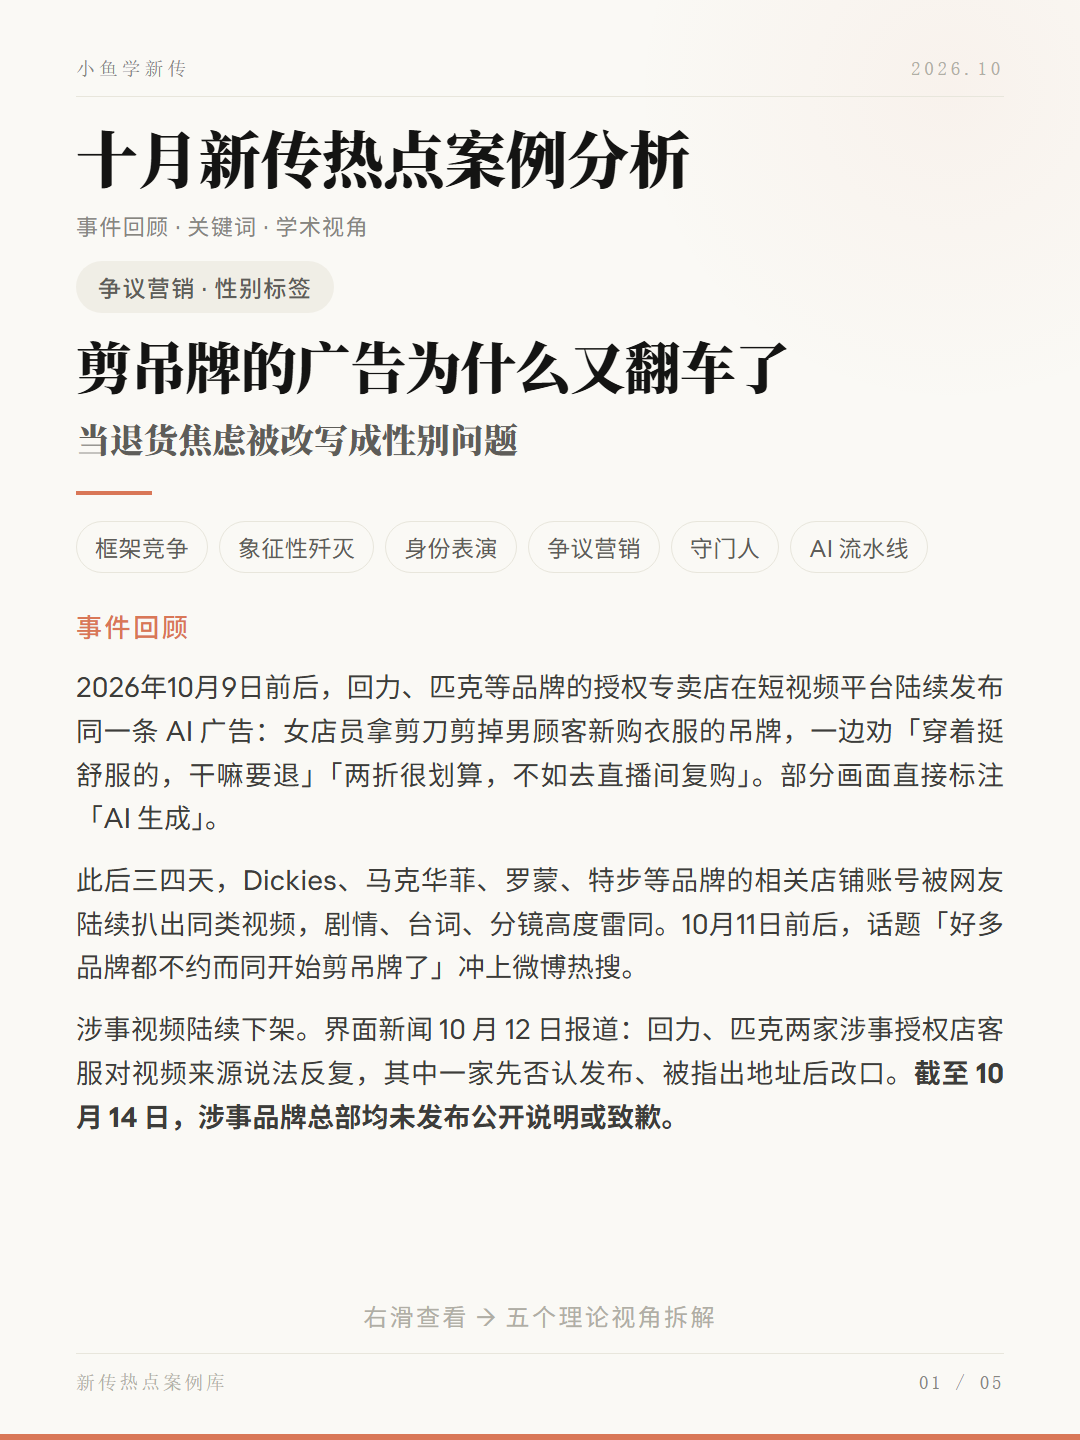
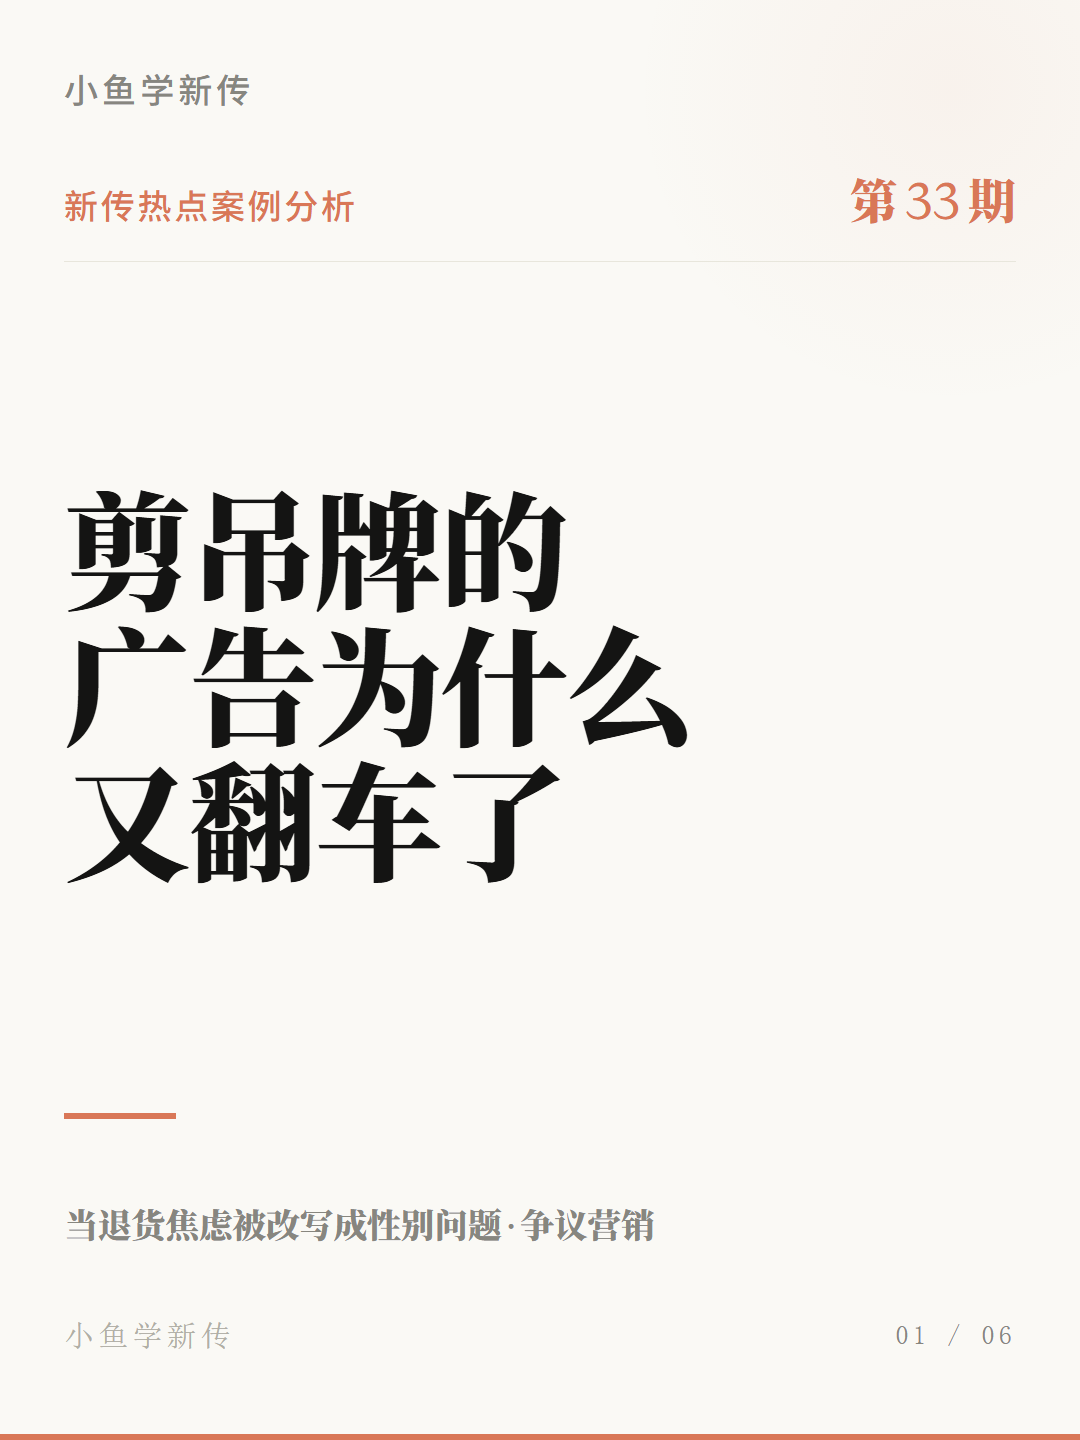
编号33 剪吊牌封面改大标题版式，5→6 张
p1 改纯大标题封面（v13 同款），事件回顾+关键词下沉为 p2，p2-p5 顺延为 p3-p6，页脚署名统一为小鱼学新传。

diff --git a/kb/新传热点事件解读/README.md b/kb/新传热点事件解读/README.md
@@ -26,26 +26,26 @@
 | 12 | [现实版「葫芦娃爷爷」爆火与剪葫芦](12-葫芦娃爷爷事件.md) | 2026-09-05 | 集体记忆 / 拟剧理论 / 情感公地悲剧 / 媒介情境 / 反向把关 | ×3 |
 | 13 | [火车「零食占座」事件：一个空座的三次反转](13-火车零食占座事件.md) | 2026-08-16 | 反转新闻 / 框架竞争 / 新可见性 / 半公共产品 / 失范 | ×3 |
 | 14 | [罗永浩一句「难吃」与野人先生的冷处理](14-野人先生事件.md) | 2026-09-12 | 意见领袖 / 情境式危机沟通 / 符号消费 / 负面偏好 / 叙事传输 | ×3 |
-| 15 | [「一点点」前员工举报茶叶异物与「上门」争议](15-一点点事件.md) | 2026-08-13 | 框架理论 / 弱者的武器 / 情境式危机沟通 / 私人关系施压 | ×5 |
+| 15 | [「一点点」前员工举报茶叶异物与「上门」争议](15-一点点事件.md) | 2026-08-13 | 框架理论 / 弱者的武器 / 情境式危机沟通 / 私人关系施压 | ×6 |
 | 16 | [湖北恩施 MCN 假冒「村支书」「村长」直播带货被立案](16-假村官带货事件.md) | 2026-09-16 | 拟剧理论 / 符号资本 / 拟像与仿真 / 公地悲剧 | ×6 |
 | 17 | [山东聊城「水城优才」人才引进：面试第一，因「专升本」被拒录](17-专升本被拒录事件.md) | 2026-09-16 | 程序正义 / 制度化文化资本 / 污名 / 框架竞争与情感公众 / 优绩主义 | ×6 |
 | 18 | [西贝「彻底倒闭」传闻与贾国龙的公开喊话](18-西贝倒闭传闻.md) | 2026-09-19 | 谣言传播 / 框架竞争 / 危机公关 / 事件性公众 / 企业即媒介 | ×4 |
-| 19 | [低保女孩赴港看演唱会触发预警：一笔消费进入公共救助的边界](19-低保赴港追星.md) | 2026-09-02 | 个案公共化 / 污名 / 文化资本 / 道德经济学 / 数字治理 | ×5 |
-| 20 | [一杯豆浆的黑丝：品牌授权模式下的流量异化与责任断裂](20-永和豆浆擦边.md) | 2026-09-16 | 注意力经济 / 代理成本 / 拟剧理论 / 违法成本 / 制度留白 | ×5 + ×5（Anthropic 版） |
-| 21 | [一声「坐下」：私人仪式、公共边界与被放大的事实](21-赵雷求婚.md) | 2026-09-12 | 礼貌性疏忽 / 情境崩溃 / 议程设置 / 仪式模板 / 信源核实 | ×5 |
-| 22 | [两秒钟的触碰：一段剪辑与一次反转](22-男童摸臀反转.md) | 2026-08-26 | 框架理论 / 污名 / 道德恐慌 / 正当性叙事 / 平台治理 | ×5 |
-| 23 | [一根六十厘米的蛋挞：当「变大」成为最低成本的流量入口](23-超长蛋挞.md) | 2026-09-09 | 注意力经济 / 社交货币 / 供给端竞赛 / 流量驱动消费 / 健康风险传播 | ×5 |
-| 24 | [谣言跑在通报之前：四十小时的信息真空与一场未完成的审判](24-南医大坠亡谣言.md) | 2026-09-15 | 谣言传播 / 框架理论 / 后真相 / 事实核查 / 平台治理 | ×5 |
-| 25 | [一盒月饼的错位：品牌失语之后，声讨落在了谁头上](25-蒂芙尼月饼门.md) | 2026-09-27 | 符号消费 / 框架建构 / 弱者的武器 / 情绪劳动 / 数字围观 | ×5 |
-| 26 | [没有退路的道歉：客舱尊严如何在考核压力中让出](26-东航乘务员下跪.md) | 2026-09-28 | 情感劳动 / 考核规训 / 框架建构 / 面子功夫 / 机闹治理 | ×5 |
-| 27 | [被剪出来的真实：一档综艺如何生产它需要的「真实」](27-张家齐综艺剪辑.md) | 2026-09-29 | 情感资本主义 / 拟像与超真实 / 语境坍塌 / 景观社会 / 平台化 | ×5 |
-| 28 | [谁来了都得闪两步：非遗老教材的七亿流量，落在了谁手上](28-非遗舞步出圈.md) | 2026-09-26 | **非理论体例**：反差感 / 参与感 / 去处 / 门槛（评论立意四层次） | ×5 |
-| 29 | [寒夜里的那张床：善意到位了，程序还差一步](29-祁连县腾宿舍安置游客.md) | 2026-10-03 | 程序正义 / 知情同意 / 情感公众 / 应急征用边界 / 治理缝隙 | ×5 |
-| 30 | [旷工六百三十五天：一场各说各话的信任对撞](30-电信前员工举报.md) | 2026-10-06 | 塔西佗陷阱 / 吹哨人困境 / 框架竞争 / 情感公众 / 自查局限 | ×5 |
-| 31 | [裙摆上的肥牛：一道菜触碰到的两条线](31-芭比娃娃肥牛.md) | 2026-10-08 | **非理论体例**：不适感 / 创意的成本 / 合规的窄门 / 谁在纠错（评论立意四层次） | ×5 |
-| 32 | [一张A4纸的账单：作业打印费该谁买单](32-打印费.md) | 2026-10-08 | 目标替代（默顿）/ 知识沟（卡茨曼）/ 媒介情境（梅罗维茨）/ 政策执行（普雷斯曼与维尔达夫斯基）/ 公地悲剧（哈丁） | ×5 |
-| 33 | [剪吊牌的广告为什么又翻车了：当退货焦虑被改写成性别问题](33-剪吊牌.md) | 2026-10-09 | 框架竞争（恩特曼）/ 象征性歼灭（塔奇曼）/ 身份表演（戈夫曼）/ 注意力经济（达文波特与贝克）/ 守门人缺位（卢因与怀特） | ×5 |
-| 34 | [标价1980的镜片，批发价30](34-近视防控镜片.md) | 2026-10-18 | 柠檬市场（阿克洛夫）/ 框架理论（恩特曼） | ×5 |
+| 19 | [低保女孩赴港看演唱会触发预警：一笔消费进入公共救助的边界](19-低保赴港追星.md) | 2026-09-02 | 个案公共化 / 污名 / 文化资本 / 道德经济学 / 数字治理 | ×6 |
+| 20 | [一杯豆浆的黑丝：品牌授权模式下的流量异化与责任断裂](20-永和豆浆擦边.md) | 2026-09-16 | 注意力经济 / 代理成本 / 拟剧理论 / 违法成本 / 制度留白 | ×6 + ×5（Anthropic 版） |
+| 21 | [一声「坐下」：私人仪式、公共边界与被放大的事实](21-赵雷求婚.md) | 2026-09-12 | 礼貌性疏忽 / 情境崩溃 / 议程设置 / 仪式模板 / 信源核实 | ×6 |
+| 22 | [两秒钟的触碰：一段剪辑与一次反转](22-男童摸臀反转.md) | 2026-08-26 | 框架理论 / 污名 / 道德恐慌 / 正当性叙事 / 平台治理 | ×6 |
+| 23 | [一根六十厘米的蛋挞：当「变大」成为最低成本的流量入口](23-超长蛋挞.md) | 2026-09-09 | 注意力经济 / 社交货币 / 供给端竞赛 / 流量驱动消费 / 健康风险传播 | ×6 |
+| 24 | [谣言跑在通报之前：四十小时的信息真空与一场未完成的审判](24-南医大坠亡谣言.md) | 2026-09-15 | 谣言传播 / 框架理论 / 后真相 / 事实核查 / 平台治理 | ×6 |
+| 25 | [一盒月饼的错位：品牌失语之后，声讨落在了谁头上](25-蒂芙尼月饼门.md) | 2026-09-27 | 符号消费 / 框架建构 / 弱者的武器 / 情绪劳动 / 数字围观 | ×6 |
+| 26 | [没有退路的道歉：客舱尊严如何在考核压力中让出](26-东航乘务员下跪.md) | 2026-09-28 | 情感劳动 / 考核规训 / 框架建构 / 面子功夫 / 机闹治理 | ×6 |
+| 27 | [被剪出来的真实：一档综艺如何生产它需要的「真实」](27-张家齐综艺剪辑.md) | 2026-09-29 | 情感资本主义 / 拟像与超真实 / 语境坍塌 / 景观社会 / 平台化 | ×6 |
+| 28 | [谁来了都得闪两步：非遗老教材的七亿流量，落在了谁手上](28-非遗舞步出圈.md) | 2026-09-26 | **非理论体例**：反差感 / 参与感 / 去处 / 门槛（评论立意四层次） | ×6 |
+| 29 | [寒夜里的那张床：善意到位了，程序还差一步](29-祁连县腾宿舍安置游客.md) | 2026-10-03 | 程序正义 / 知情同意 / 情感公众 / 应急征用边界 / 治理缝隙 | ×6 |
+| 30 | [旷工六百三十五天：一场各说各话的信任对撞](30-电信前员工举报.md) | 2026-10-06 | 塔西佗陷阱 / 吹哨人困境 / 框架竞争 / 情感公众 / 自查局限 | ×6 |
+| 31 | [裙摆上的肥牛：一道菜触碰到的两条线](31-芭比娃娃肥牛.md) | 2026-10-08 | **非理论体例**：不适感 / 创意的成本 / 合规的窄门 / 谁在纠错（评论立意四层次） | ×6 |
+| 32 | [一张A4纸的账单：作业打印费该谁买单](32-打印费.md) | 2026-10-08 | 目标替代（默顿）/ 知识沟（卡茨曼）/ 媒介情境（梅罗维茨）/ 政策执行（普雷斯曼与维尔达夫斯基）/ 公地悲剧（哈丁） | ×6 |
+| 33 | [剪吊牌的广告为什么又翻车了：当退货焦虑被改写成性别问题](33-剪吊牌.md) | 2026-10-09 | 框架竞争（恩特曼）/ 象征性歼灭（塔奇曼）/ 身份表演（戈夫曼）/ 注意力经济（达文波特与贝克）/ 守门人缺位（卢因与怀特） | ×6 |
+| 34 | [标价1980的镜片，批发价30](34-近视防控镜片.md) | 2026-10-18 | 柠檬市场（阿克洛夫）/ 框架理论（恩特曼） | ×6 |
 
 > 本仓库从编号 12 起收录。更早的编号素材未归档入库。
 > **行文风格按用户逐期指定，不强制统一**：编号 20 用评论体（概念化冒号标题 + 具名学者与年份 + 结构层落点 + 金句收束）；编号 21 改为**论述题答题体**（理论名先行 + 具名学者 + 分层论证 + 论断收束，术语密度更高，可直接迁移到考场答案）；编号 22—25 沿用论述题答题体（编号 22 为框架理论 / 污名 / 道德恐慌 / 正当性叙事 / 平台治理；编号 23 为注意力经济 / 社交货币 / 供给端竞赛 / 流量驱动消费 / 健康风险传播；编号 24 为谣言公式 / 框架理论 / 后真相 / 事实核查 / 治理缝隙；编号 25 为符号消费 / 框架建构 / 弱者的武器 / 情绪劳动 / 数字围观；编号 26 为情感劳动 / 考核规训 / 框架建构 / 面子功夫 / 机闹治理；编号 27 为情感资本主义 / 拟像与超真实 / 语境坍塌 / 景观社会 / 平台化）。每期的风格设定都写在笔记 frontmatter 下方的引用行里。

diff --git a/kb/wiki/log.md b/kb/wiki/log.md
@@ -1020,3 +1020,17 @@ PDF 用 venv 内 pypdf 6.16.2 提取，落盘 `_p14_j.txt`（第十四讲）与 
 **注意**：v13 目前只落在工作目录与成品 PNG 里，**`templates/noun-100/p1.html` 尚未回写**，与 `DESIGN.md` §2／§8 的「series-band 珊瑚铺面 + 白字」「主标题居中且永远一行」「刊头必带 spike」仍冲突。下次用模板出封面仍会得到旧版式，需先裁决回写。
 
 **产物**：`kb/新传高频名词/拟态环境/拟态环境-01.png`（md5 `83738765205fe19f95f7731bbb781f4f`）＋ 桌面副本 `Desktop/拟态环境_名词卡/拟态环境-01.png`（md5 一致）。渲染判据：`cardScroll` 1440、`contentBottom` 1257、`footTop` 1302、未溢出。README 版式表补记 v13、已收录表与 `wiki/index.md` 同步。
+
+## [2026-10-19] report | 编号 33 剪吊牌封面改大标题版式，张数 5→6
+
+**改什么**：p1 从「栏目大标题 + 药丸标签 + 案例标题 56px + chips + 事件回顾三段」的旧版封面，改成与 100 讲系列 v13 一致的**纯大标题封面**——刊头只留灰字「小鱼学新传」（去掉右上日期）、系列行珊瑚「新传热点案例分析」+ 右端珊瑚「第 33 期」、通栏发丝线、巨字衬线标题左齐、珊瑚短横、灰字副题「当退货焦虑被改写成性别问题 · 争议营销」、页脚「小鱼学新传 / 01 / 06」无上分隔线。原封面的事件回顾三段 + 六个关键词 chips + 右滑提示行整体下沉为新 p2，p2—p5 顺延为 p3—p6，全篇改 6 页制，页脚署名由「新传热点案例库」统一改为「小鱼学新传」。
+
+**标题排法**：14 字「剪吊牌的广告为什么又翻车了」断三行「剪吊牌的 / 广告为什么 / 又翻车了」（6+5+4）。字号不能套 5 字两行那套的 172px——6 × 172 = 1032 超内容宽 928，且三行 172px 高 547px 塞不进「发丝线 ↔ 短横」这段 858px 空区。按 6 × 136 = 816 反推取 128px，行高 136 × 3 = 408px，标题上边距 216 → 224（上下各留 225px 视觉居中），短横 margin-top 220 使其落在 y1113，对齐 v13 的 1119。
+
+**新 p2 的时间线**：下沉后本页只剩三段回顾 + chips，下方空出 461px。加了一条 4 行事件时间线（10/9 首曝 → 10/10—11 扩散下架 → 10/11 热搜 → 12—14 媒体报道与未致歉），全部内容取自原回顾与原有参考来源，未新增事实。加 tl-note 段会溢出 132px，砍掉；时间线 5 条版本 hintGap 仅 3px，合并末两条后为 43px（合格区间 32—56px）。日期列宽 148px 会折行，加 `white-space: nowrap` 并放宽到 186px。
+
+**踩坑（值得记）**：`.card` 是 `display:flex; flex-direction:column`，`.cover-rule` 只有 6px 高，默认 `flex-shrink:1`，内容一多就被压成 0——第一版短横直接消失、行段表里也扫不到。所有矮装饰件（短横、发丝线、chips 容器）在这套版式里都要显式 `flex-shrink: 0`。
+
+**渲染判据**：p1 contentBottom 1248 / footTop 1300；p2 hintGap 43、contentBottom 1333；p3 1230、p4 1284、p5 1287、p6 1293；`miniBarW` 均 928，无溢出。
+
+**归档**：6 张替换 `kb/新传热点事件解读/images/33-剪吊牌-0X.png`（原 5 张 md5 全部作废，新增 06），md5 与桌面副本 `Desktop/my-wiki-kb/33_剪吊牌_图卡/` 逐张一致。`kb/新传热点事件解读/README.md` 第 33 行张数 ×5 → ×6。原 HTML 备份在 `剪吊牌_新传案例/_backup_20261019/`。
